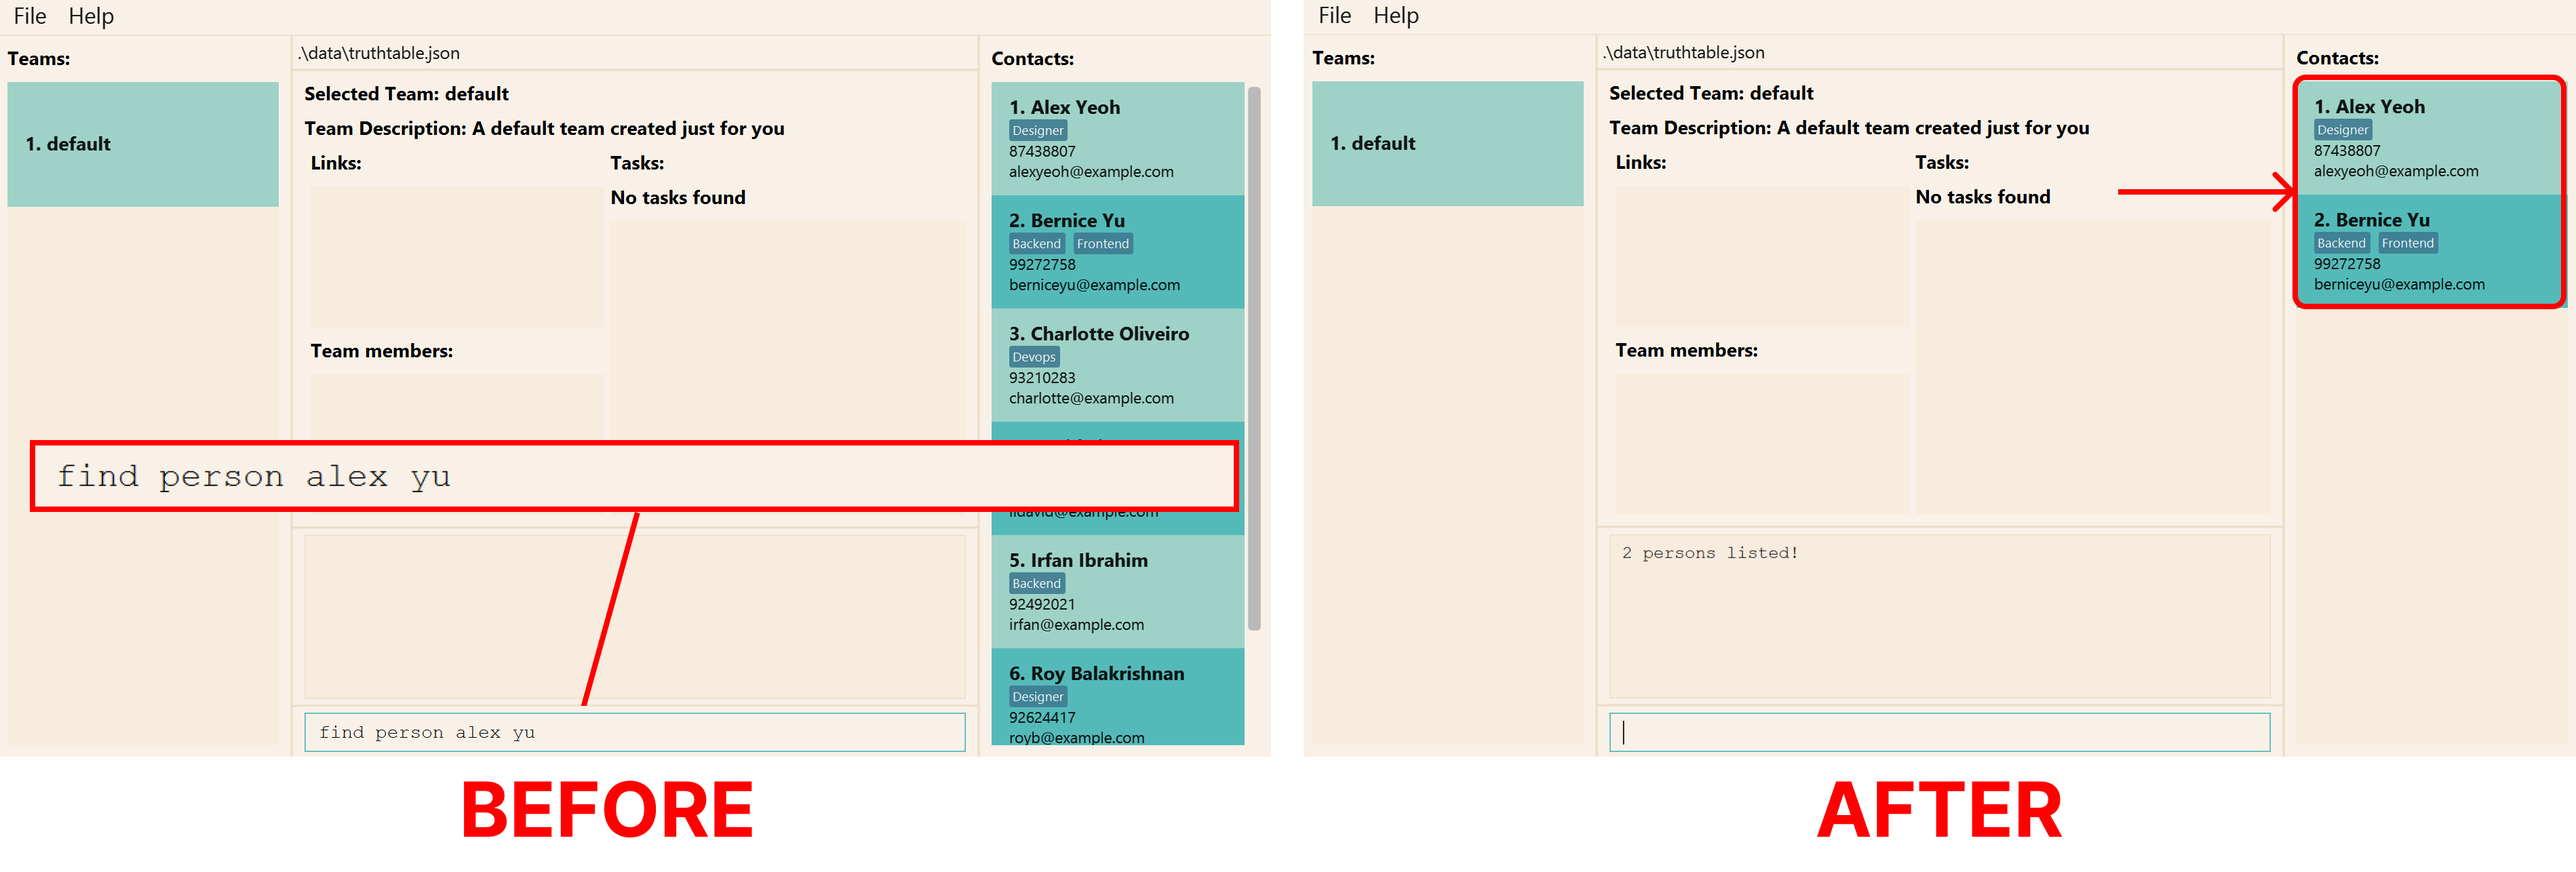
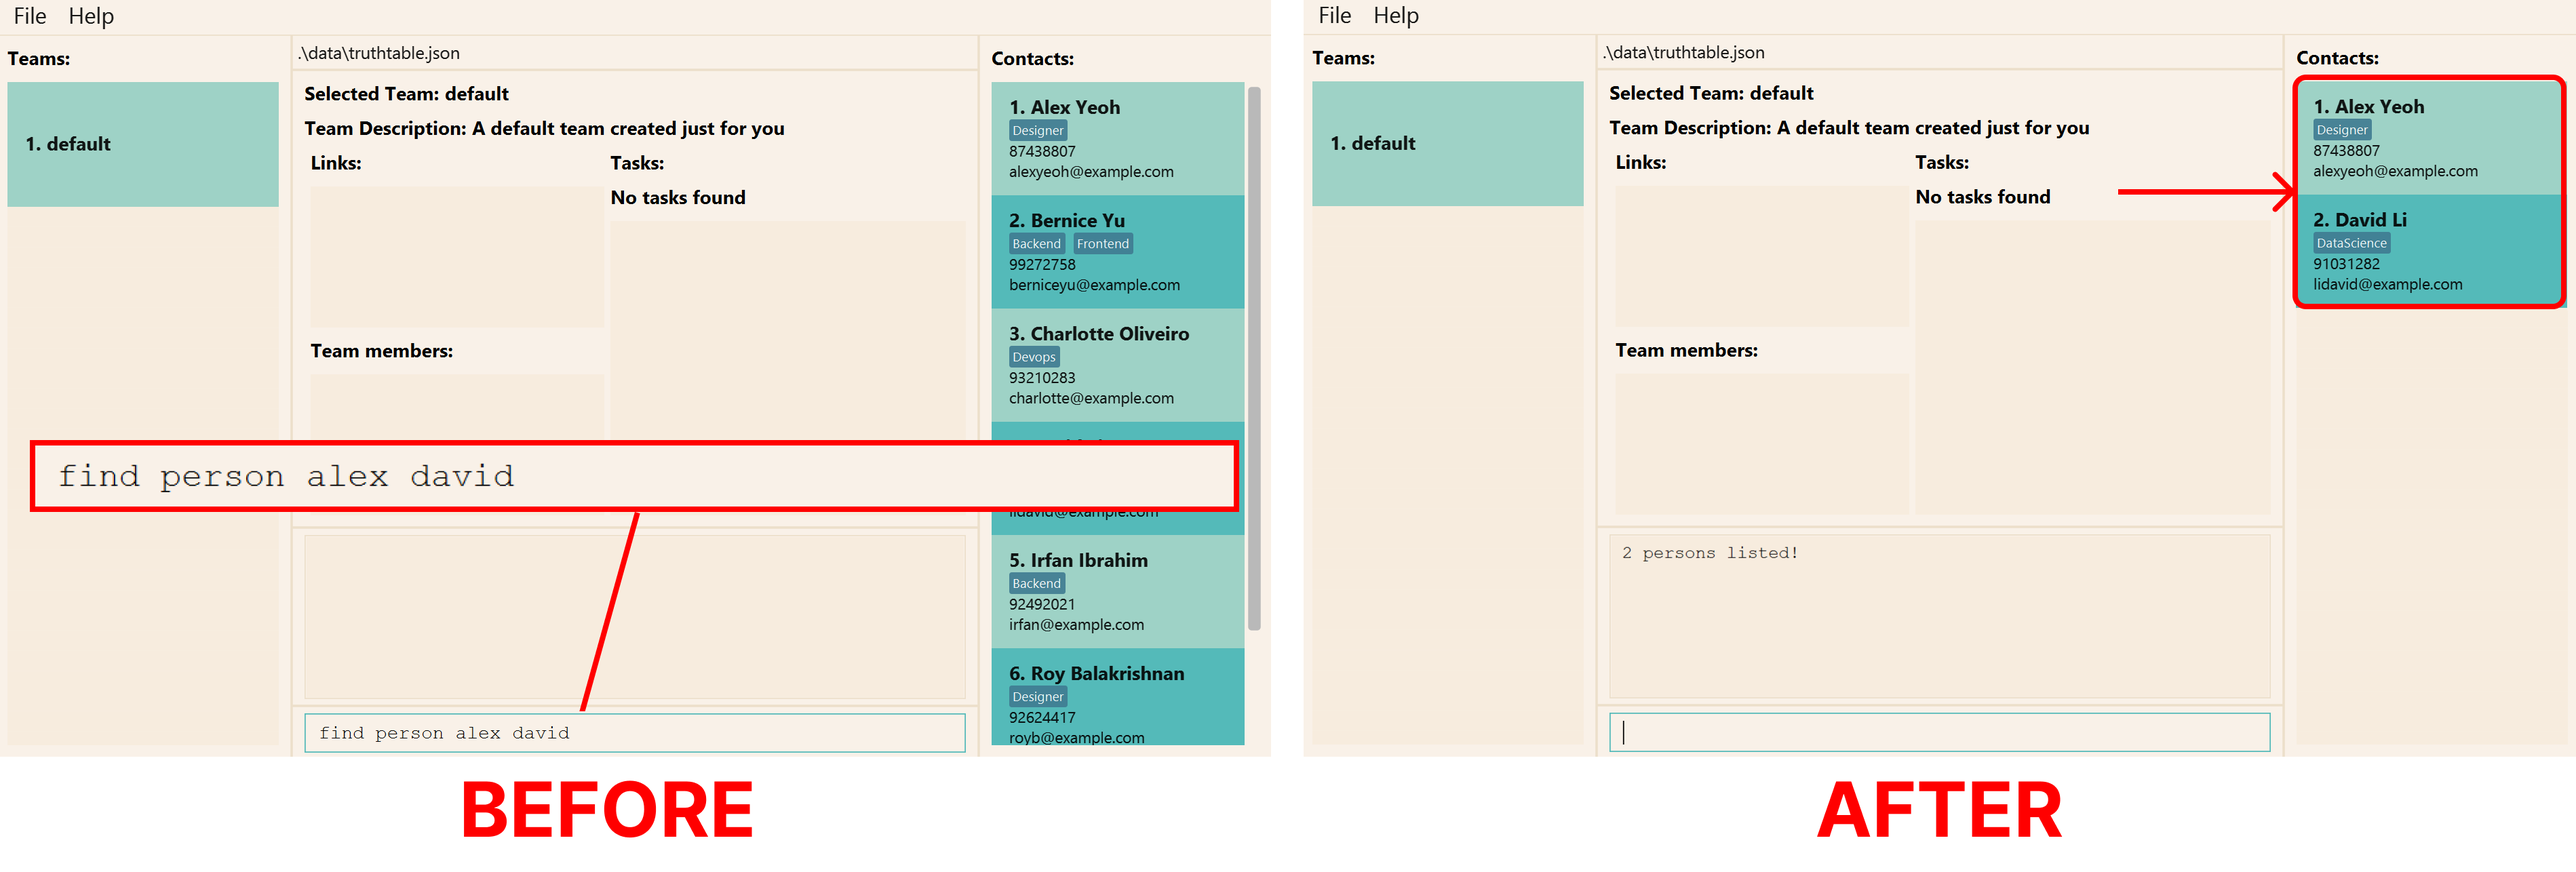
Add find member and fix find person

diff --git a/docs/UserGuide.md b/docs/UserGuide.md
@@ -642,7 +642,7 @@ with Alex and David in their names, enter the command `find person alex david`.
 If done successfully, you should the see all persons named Alex and David show up under in the
 [persons section](#persons-section).
 
-![result for 'find person alex david'](images/findPersonAlexDavidResult.png)
+![result for 'find person alex david'](images/FindPersonExample.png)
 
 Unable to find a person you are looking for? Please check that you have added the person into TruthTable! Refer to the
 above [add person command](#creating-a-new-person-add-person) to add a new person into TruthTable.
@@ -811,6 +811,8 @@ Suppose you want to find all team members named Alex or David. Enter the command
 
 If done successfully, you should the see all team members named Alex and David show up under in the member list in the
 [current team section](#current-team-section).
+
+![Find Member Example](images/FindMemberExample.png)
 
 Unable to find an existing team member? Please check that you have added the team member into your team as shown in the
 [current team section](#current-team-section). Refer to the above
